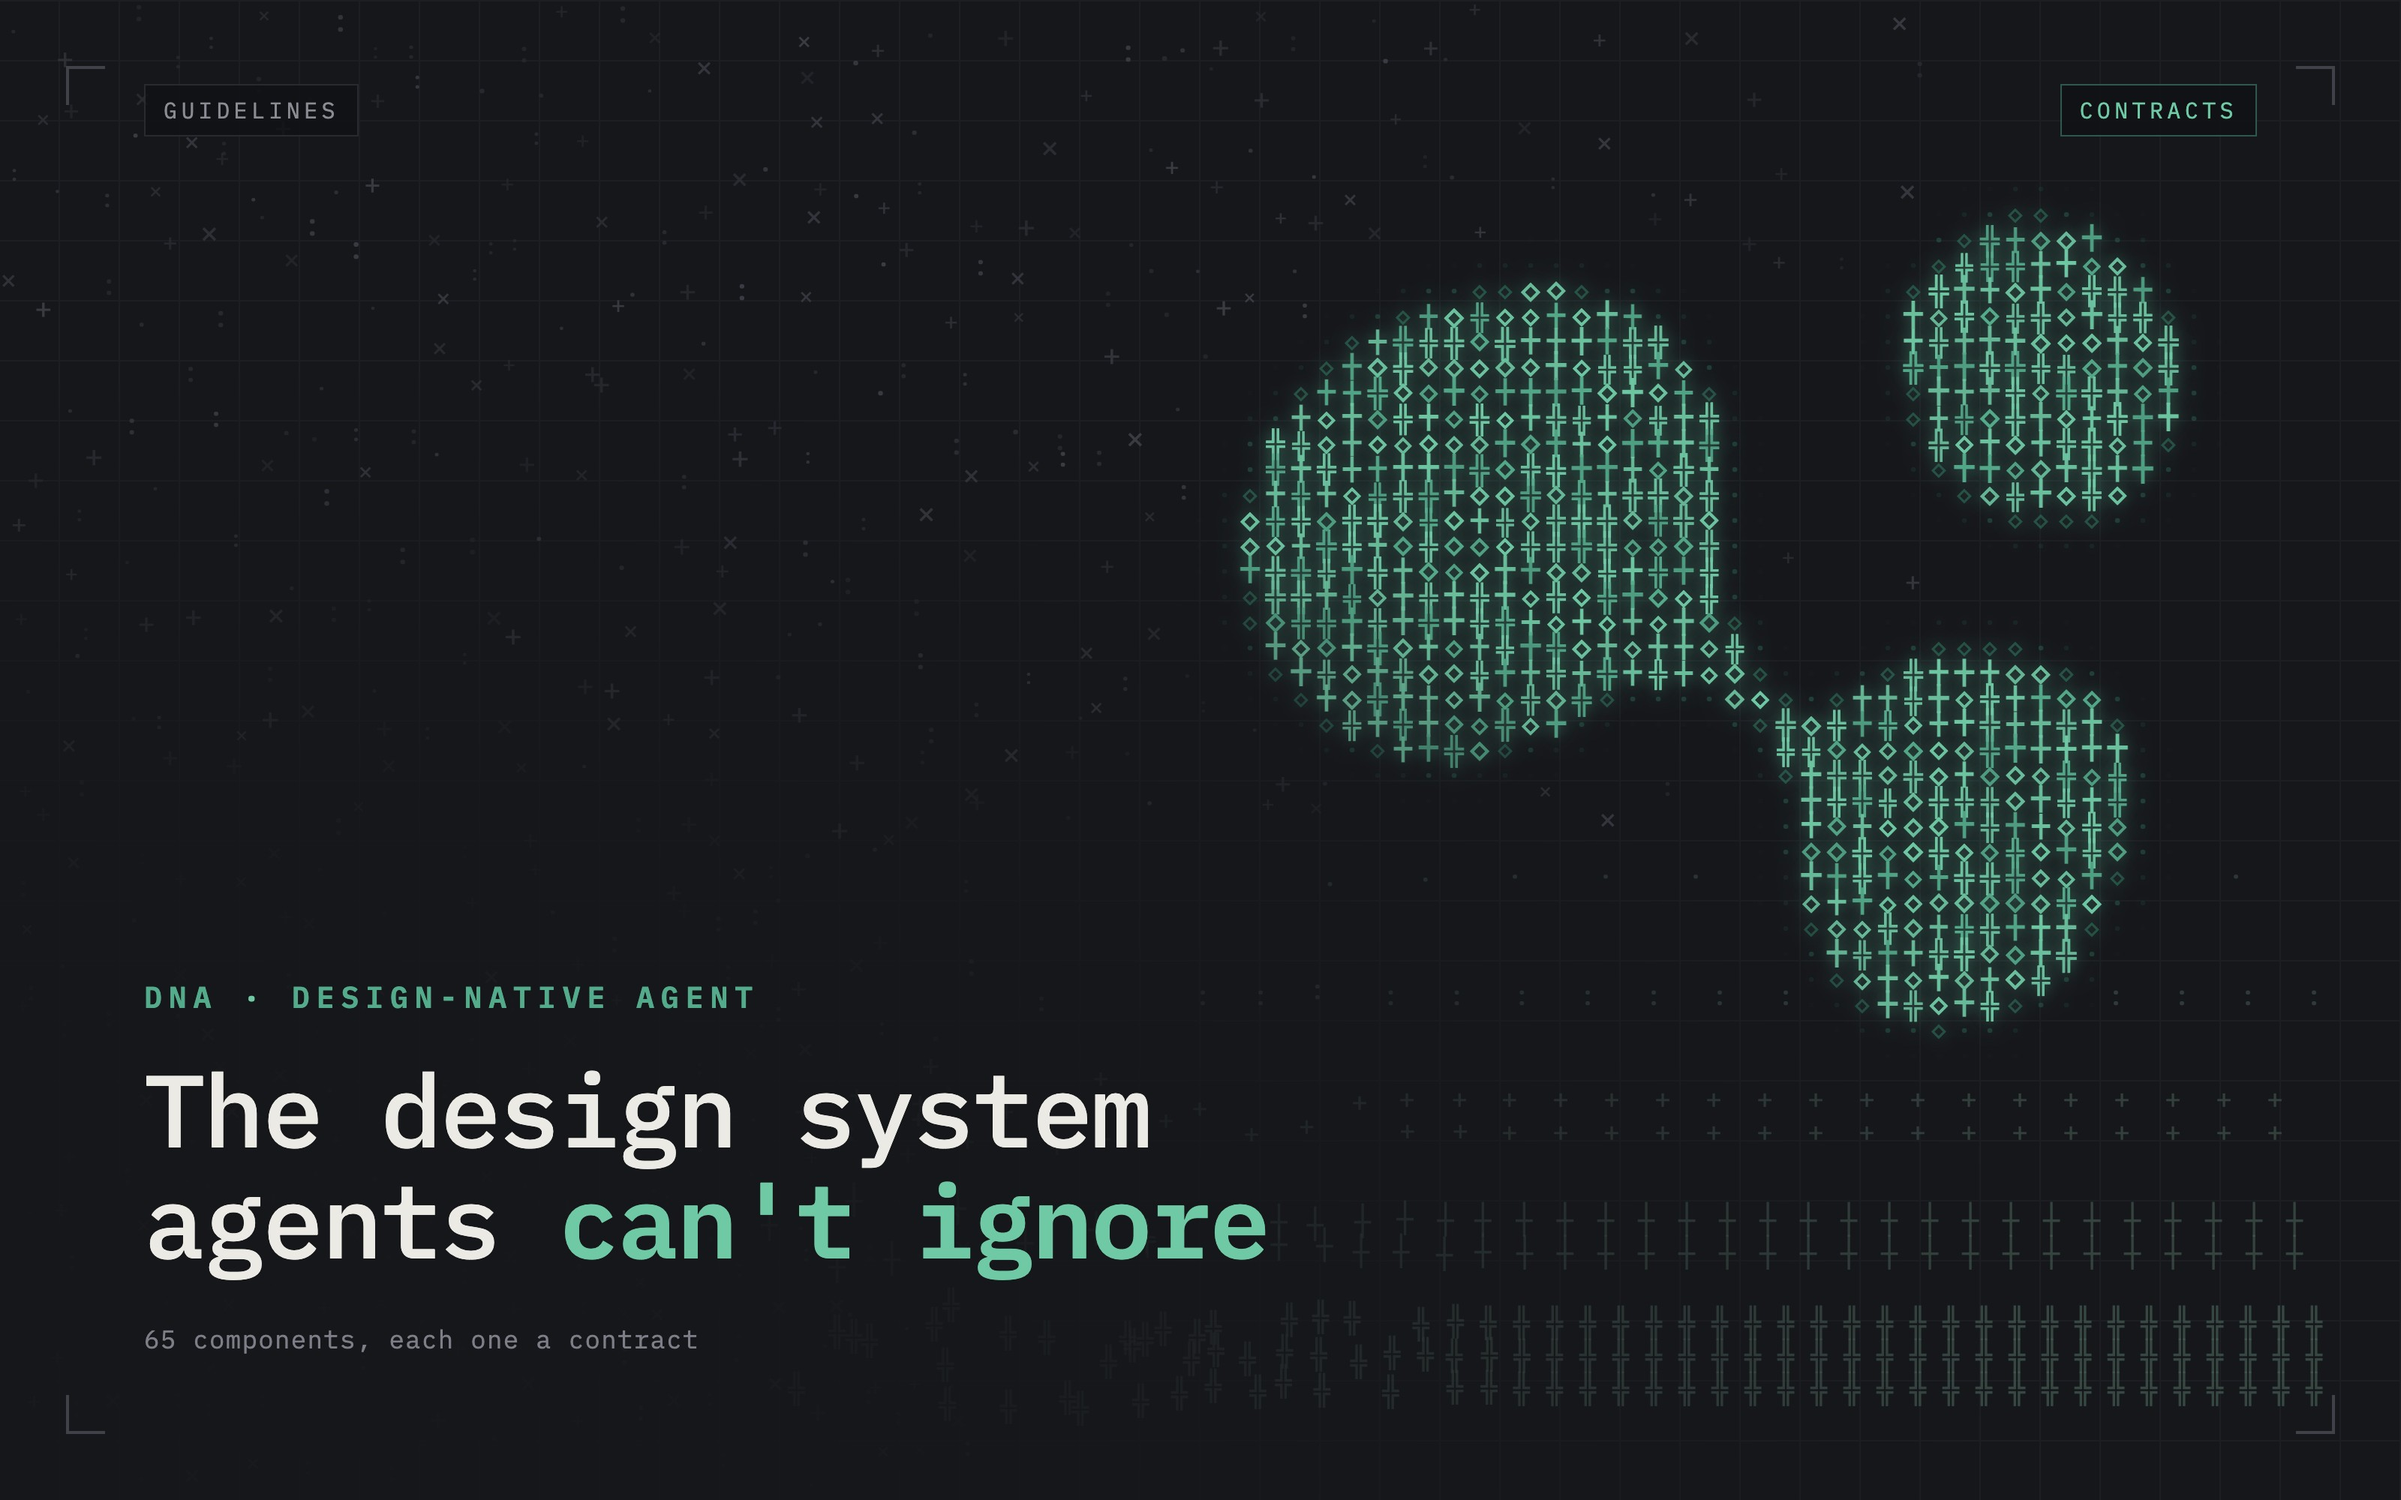
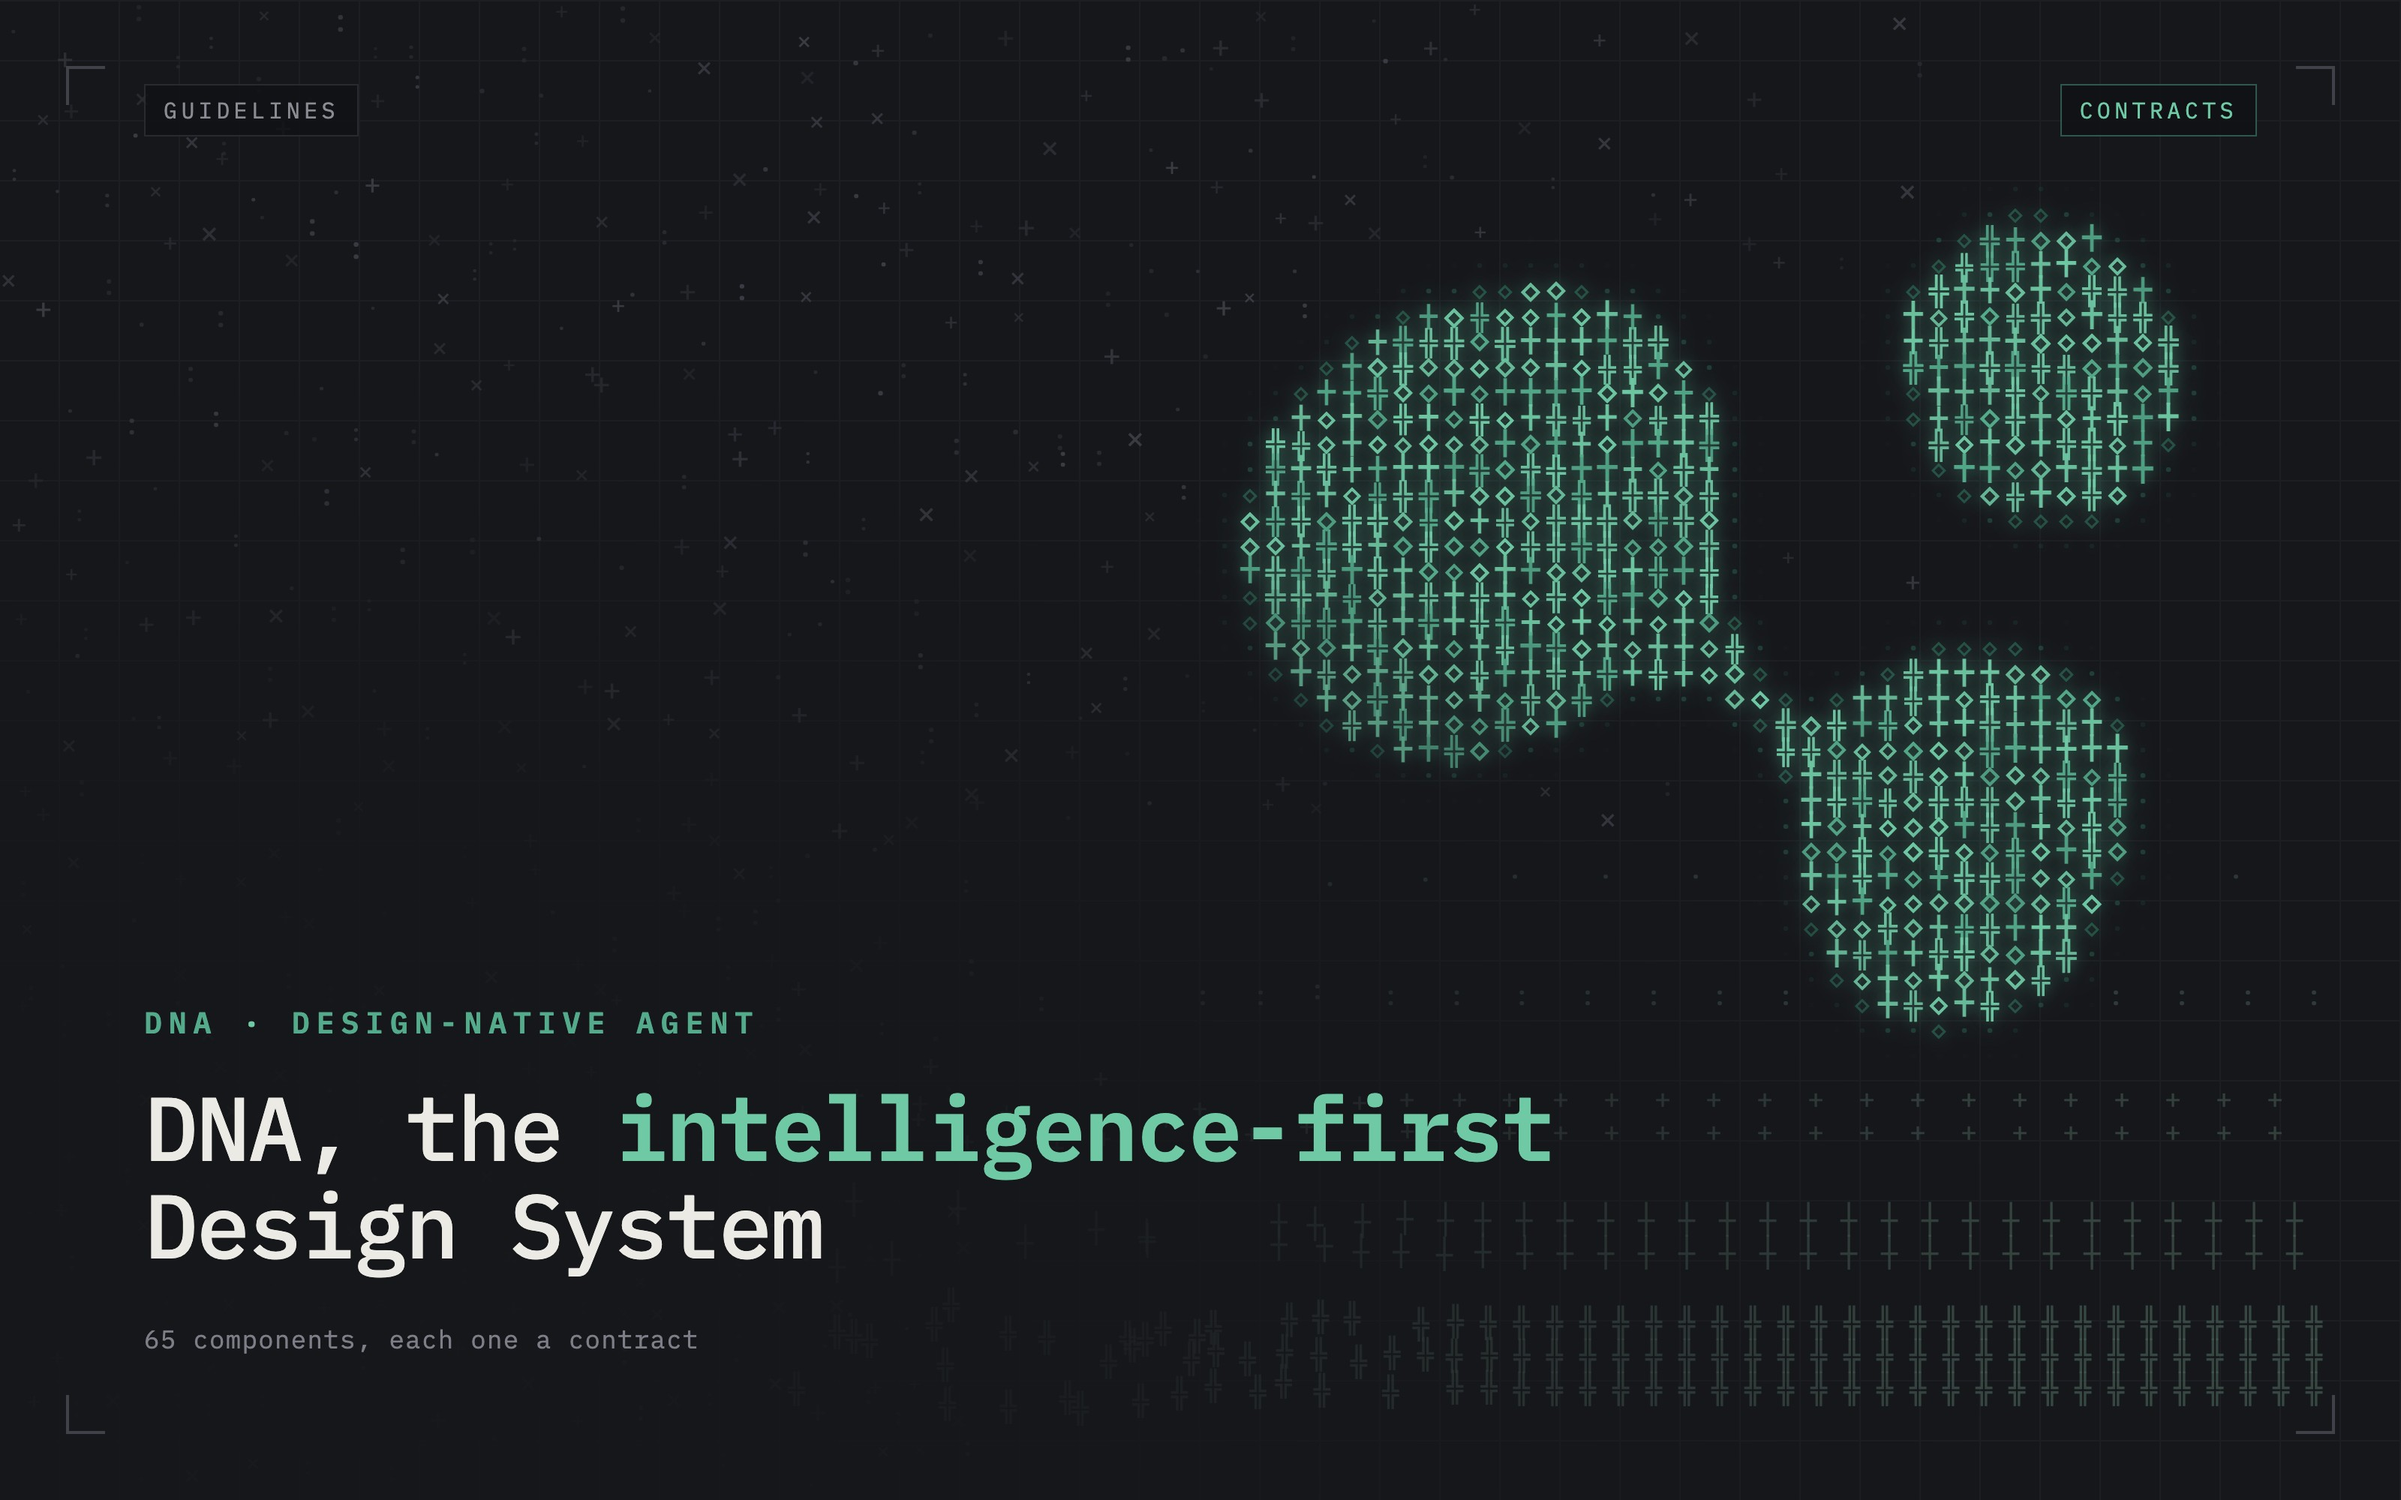
copy(work): DNA titled the intelligence-first Design System, no dated timeline
- Title "DNA, the intelligence-first Design System" on the entry and cover
- Timeline reads 2026; rollout phases lose their dates; "five days"
  wording removed, so the build doesn't read as rushed
- Problem screenshot cropped to the part that shows the failures

Changed region(s): [[0.0625, 0.713, 0.6562, 0.868], [0.125, 0.651, 0.3125, 0.682], [0.0625, 0.651, 0.0938, 0.682]]

diff --git a/lib/caseStudies/design-native-agent.ts b/lib/caseStudies/design-native-agent.ts
@@ -2,7 +2,7 @@ import type { CaseStudy } from './types'
 
 export const designNativeAgent: CaseStudy = {
   id: 'design-native-agent',
-  title: 'The design system agents can\'t ignore',
+  title: 'DNA, the intelligence-first Design System',
   kicker: 'DNA · Design-Native Agent',
   subtitle: 'Design systems were written for people to read, but agents now build the screens, so DNA turns every component into a contract an agent is checked against as it writes, and the whole system is [live to explore](https://dna.miguelangelo.tech), from the [component library](https://dna.miguelangelo.tech/#/library/catalog) to the [live canvas](https://dna.miguelangelo.tech/#/canvas) and the [system checks](https://dna.miguelangelo.tech/#/checks), as a separate project from the [Fast Track DNA workstation](/work/dna).',
   hashtag: '#Design Systems',
@@ -11,8 +11,8 @@ export const designNativeAgent: CaseStudy = {
   linkText: 'Read case study',
   cardSummary: 'An agent-first design system: components as checkable contracts, so the screens agents build stay on the system.',
   imageUrl: '/img/dna-native/cover.jpg',
-  imageAlt: 'DNA cover: on a dark grid, the three-lobe DNA logo, one cell dividing in two with a third lobe floating above, drawn in glowing pine green glyphs, while faint scattered marks labelled guidelines settle into ordered bands labelled contracts, over the kicker DNA, design-native agent, and the title The design system agents can\'t ignore',
-  timeline: 'October 2026: first commit on 12 October, live on 16 October',
+  imageAlt: 'DNA cover: on a dark grid, the three-lobe DNA logo, one cell dividing in two with a third lobe floating above, drawn in glowing pine green glyphs, while faint scattered marks labelled guidelines settle into ordered bands labelled contracts, over the kicker DNA, design-native agent, and the title DNA, the intelligence-first Design System',
+  timeline: '2026',
   team: 'Designed and directed solo, with Claude and Codex as builders and independent reviewers',
 
   impact: {
@@ -164,27 +164,27 @@ export const designNativeAgent: CaseStudy = {
     ],
     rollout: [
       {
-        phase: '12 October: Foundations',
+        phase: 'Foundations',
         activities: [
           'Token pipeline, the first contracts and a theme generator with a live playground',
         ],
       },
       {
-        phase: '13 to 14 October: The Vocabulary',
+        phase: 'The Vocabulary',
         activities: [
           'Navigation, page structures and the twenty components for working with agents, built on web and phone',
           'A direction review by two independent agents that set the order as evidence first, then themes, then one complete workflow, and dropped the idea of a framework',
         ],
       },
       {
-        phase: '15 October: The Evidence',
+        phase: 'The Evidence',
         activities: [
           'Validation with codes and suggestions, the agent catalogue and the Agent Skill',
           'The eval: ten briefs, three conditions, thirty runs, and three contrasting themes on the same screens',
         ],
       },
       {
-        phase: '16 October: Live',
+        phase: 'Live',
         activities: [
           'The studio published at dna.miguelangelo.tech, with the library, canvas and checks',
         ],
@@ -251,14 +251,14 @@ export const designNativeAgent: CaseStudy = {
       },
       {
         challenge: 'The project drifted towards becoming a framework, with a runtime, a platform and support for other organisations',
-        solution: 'I narrowed it to a kit that never calls a model and works with any agent, and wrote down what it would not become, which kept five days of work pointed at one clear outcome.',
+        solution: 'I narrowed it to a kit that never calls a model and works with any agent, and wrote down what it would not become, which kept every piece of work pointed at one clear outcome.',
       },
       {
         challenge: 'Clean results can hide unmet briefs, because a screen can pass every check and still leave out what was asked for',
         solution: 'Every stored screenshot was reviewed against its brief, the omissions are recorded beside the numbers, and the limits are stated as plainly as the wins.',
       },
       {
-        challenge: 'Five days of work by one author has no adoption to show yet, beyond one pilot app built on it',
+        challenge: 'A new system by one author has no adoption to show yet, beyond one pilot app built on it',
         solution: 'I treat the live site as the invitation rather than the proof, with the next gates written down: a complete workflow on a real phone, and a person who has never seen DNA finishing it without help.',
       },
     ],

diff --git a/docs/covers/dna-native.html b/docs/covers/dna-native.html
@@ -57,7 +57,7 @@
     color: var(--accent); margin-bottom: 26px;
   }
   .kicker .dot { color: var(--accent-bright); }
-  h1 { font-weight: 500; font-size: 68px; line-height: 1.08; letter-spacing: -0.02em; color: var(--ink); }
+  h1 { font-weight: 500; font-size: 60px; white-space: nowrap; line-height: 1.08; letter-spacing: -0.02em; color: var(--ink); }
   h1 .hl { color: var(--accent-bright); font-weight: 600; }
   .meta { position: absolute; z-index: 3; left: 96px; bottom: 96px; font-size: 17px; letter-spacing: 0.04em; color: #7D7F88; }
 </style>
@@ -75,7 +75,7 @@
 
   <div class="copy">
     <div class="kicker">DNA <span class="dot">·</span> Design-Native Agent</div>
-    <h1>The design system<br>agents <span class="hl">can't ignore</span></h1>
+    <h1>DNA, the <span class="hl">intelligence-first</span><br>Design System</h1>
   </div>
   <div class="meta">65 components, each one a contract</div>
 
